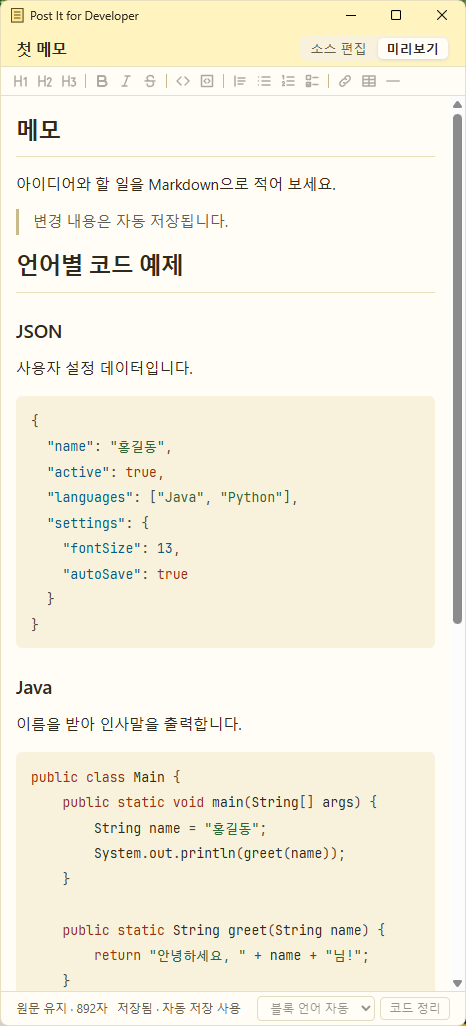
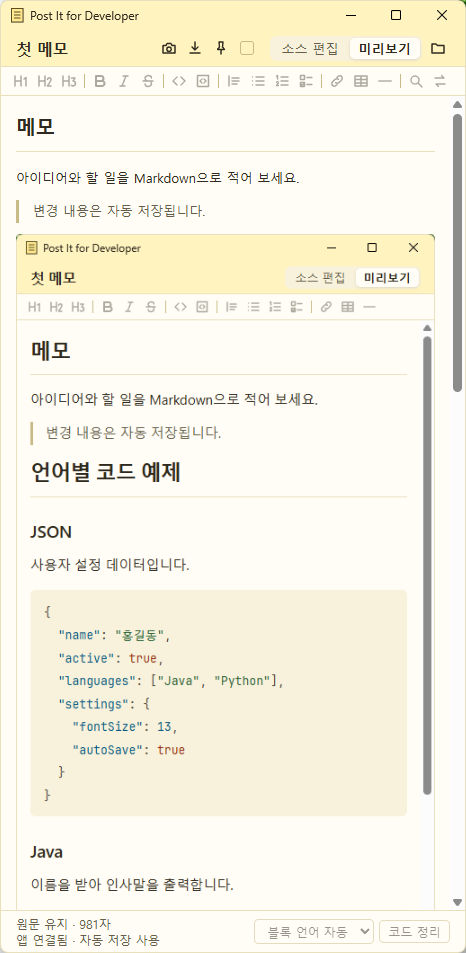
docs: refresh README screenshots and feature list

diff --git a/README.md b/README.md
@@ -15,7 +15,7 @@
 - 24px 아이콘으로 접기 (제목 표시줄 더블클릭 또는 최소화), 클릭으로 복원, 드래그로 이동
 - 메모별 항상 위와 색상 6가지
 - 창 위치·크기, 접힌 아이콘 위치, 열어 둔 메모 복원
-- 트레이 메뉴: 새 메모, 검색, 메모 목록, 휴지통, 설정, 도움말, 정보, 모두 표시/접기, 종료
+- 트레이 메뉴: 새 메모, 화면 캡처, 검색, 메모 목록, 휴지통, 설정, 도움말, 정보, 모두 표시/접기, 종료
 - 트레이로만 시작 옵션
 
 **편집**
@@ -63,6 +63,7 @@
 - D2 Ligature, JetBrains Mono, Consolas, 설치된 고정폭 글꼴, 합자
 - 본문 글꼴 선택
 - 전체, 편집기, 미리보기 글자 크기를 각각 설정하고 줄 간격 조절
+- 메모에서 Ctrl+=/-/0으로 전체 글자 크기 조절
 - 별도 설정 창, 설정은 열린 메모에 바로 적용
 
 **업데이트**
